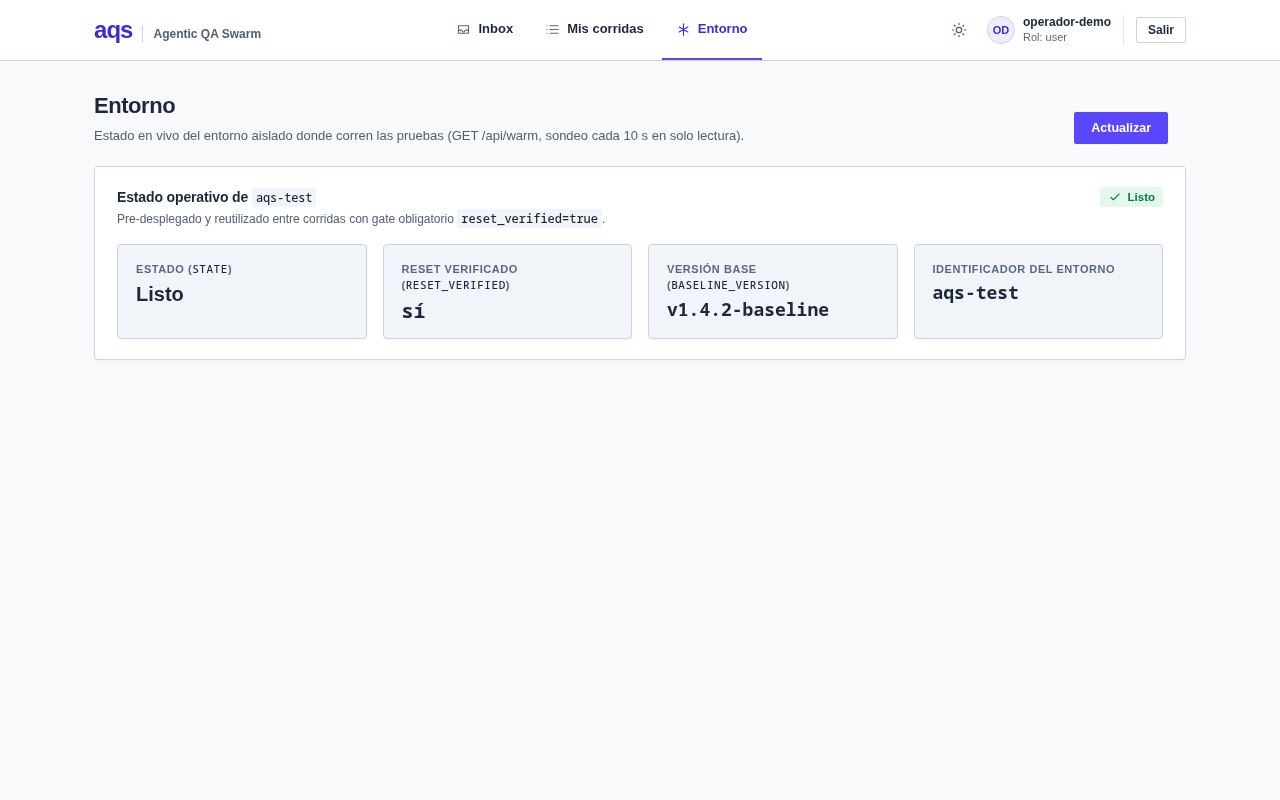
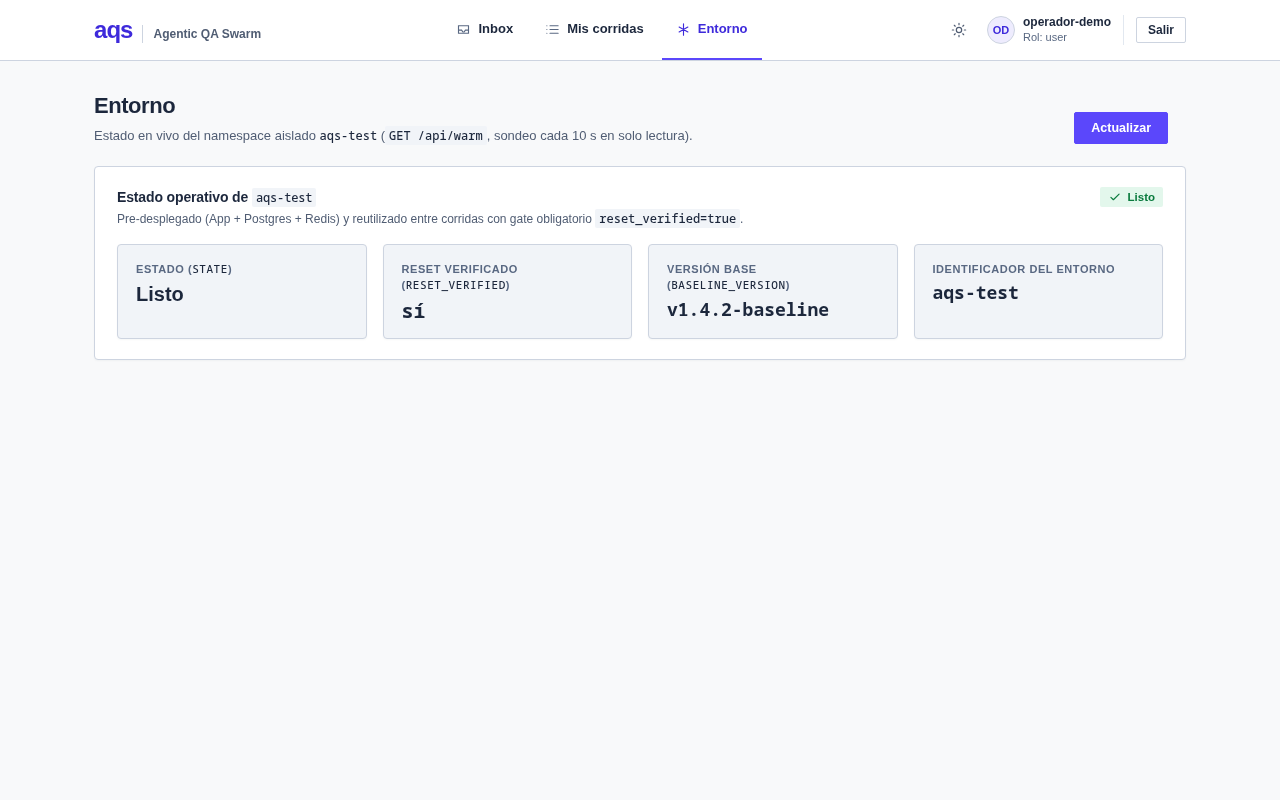
fix(U10-T06): copia de Entorno fiel al mockup (descripción con namespace y subtítulo con composición)
Continuación 5. La descripción pasa a «Estado en vivo del namespace aislado
aqs-test» con aqs-test en mono y GET /api/warm en code, y el subtítulo de la
tarjeta incluye «(App + Postgres + Redis)», ambos como en
mockups/swarm-mock.html (decisión del humano 2026-10-26 (c)).

warm-375 baja de 7,40/7,72 % (estilos=1) a 6,30/6,98 % (estilos=0); warm-1280
sigue OK (1,84/1,97 %). El umbral del 5 % sigue sin alcanzarse en 375 por
residuos de dato/marcado documentados en la bitácora.

Changed region(s): [[0.1562, 0.25, 0.5625, 0.2812], [0.1562, 0.1562, 0.5625, 0.1875]]

diff --git a/bitacoras/U10-T06/informe.html b/bitacoras/U10-T06/informe.html
@@ -47,20 +47,20 @@
 <ul><li>sin diferencias de estilo ni de estructura</li></ul>
 <div style="display:flex;gap:12px;align-items:flex-start"><figure><figcaption>app</figcaption><img src="capturas/app-runs-dark-375.png" style="max-width:600px"></figure><figure><figcaption>mockup</figcaption><img src="capturas/mock-runs-dark-375.png" style="max-width:600px"></figure></div></section>
 <section><h2>warm · light · 1280 px · OK</h2>
-<p>píxeles distintos: 1.98 % (umbral 5 %)</p>
+<p>píxeles distintos: 1.84 % (umbral 5 %)</p>
 <ul><li>sin diferencias de estilo ni de estructura</li></ul>
 <div style="display:flex;gap:12px;align-items:flex-start"><figure><figcaption>app</figcaption><img src="capturas/app-warm-light-1280.png" style="max-width:600px"></figure><figure><figcaption>mockup</figcaption><img src="capturas/mock-warm-light-1280.png" style="max-width:600px"></figure></div></section>
 <section><h2>warm · light · 375 px · FALLA</h2>
-<p>píxeles distintos: 7.40 % (umbral 5 %)</p>
-<ul><li>estilo tarjeta[0] · height: app=506.688px mock=525.688px</li></ul>
+<p>píxeles distintos: 6.30 % (umbral 5 %)</p>
+<ul><li>sin diferencias de estilo ni de estructura</li></ul>
 <div style="display:flex;gap:12px;align-items:flex-start"><figure><figcaption>app</figcaption><img src="capturas/app-warm-light-375.png" style="max-width:600px"></figure><figure><figcaption>mockup</figcaption><img src="capturas/mock-warm-light-375.png" style="max-width:600px"></figure></div></section>
 <section><h2>warm · dark · 1280 px · OK</h2>
 <p>píxeles distintos: 1.97 % (umbral 5 %)</p>
 <ul><li>sin diferencias de estilo ni de estructura</li></ul>
 <div style="display:flex;gap:12px;align-items:flex-start"><figure><figcaption>app</figcaption><img src="capturas/app-warm-dark-1280.png" style="max-width:600px"></figure><figure><figcaption>mockup</figcaption><img src="capturas/mock-warm-dark-1280.png" style="max-width:600px"></figure></div></section>
 <section><h2>warm · dark · 375 px · FALLA</h2>
-<p>píxeles distintos: 7.72 % (umbral 5 %)</p>
-<ul><li>estilo tarjeta[0] · height: app=506.688px mock=525.688px</li></ul>
+<p>píxeles distintos: 6.98 % (umbral 5 %)</p>
+<ul><li>sin diferencias de estilo ni de estructura</li></ul>
 <div style="display:flex;gap:12px;align-items:flex-start"><figure><figcaption>app</figcaption><img src="capturas/app-warm-dark-375.png" style="max-width:600px"></figure><figure><figcaption>mockup</figcaption><img src="capturas/mock-warm-dark-375.png" style="max-width:600px"></figure></div></section>
 <section><h2>login · light · 1280 px · OK</h2>
 <p>píxeles distintos: 0.54 % (umbral 5 %)</p>

diff --git a/web/dashboard/src/pages/Warm/WarmPage.tsx b/web/dashboard/src/pages/Warm/WarmPage.tsx
@@ -71,7 +71,12 @@ export function WarmPage() {
     <main className="az-container">
       <PageHeader
         titulo="Entorno"
-        descripcion="Estado en vivo del entorno aislado donde corren las pruebas (GET /api/warm, sondeo cada 10 s en solo lectura)."
+        descripcion={
+          <>
+            Estado en vivo del namespace aislado <span className="mono">aqs-test</span> (<code>GET /api/warm</code>,
+            sondeo cada 10 s en solo lectura).
+          </>
+        }
         acciones={
           <button type="button" className="btn btn-primary" onClick={refrescar}>
             Actualizar
@@ -108,7 +113,8 @@ export function WarmPage() {
                 Estado operativo de <code>{data.warm_id}</code>
               </h2>
               <div className="card-sub">
-                Pre-desplegado y reutilizado entre corridas con gate obligatorio <code>reset_verified=true</code>.
+                Pre-desplegado (App + Postgres + Redis) y reutilizado entre corridas con gate obligatorio{' '}
+                <code>reset_verified=true</code>.
               </div>
             </div>
             <span className={`badge badge-${COLOR_ESTADO[data.state]}`} data-testid="warm-estado" data-state={data.state}>
